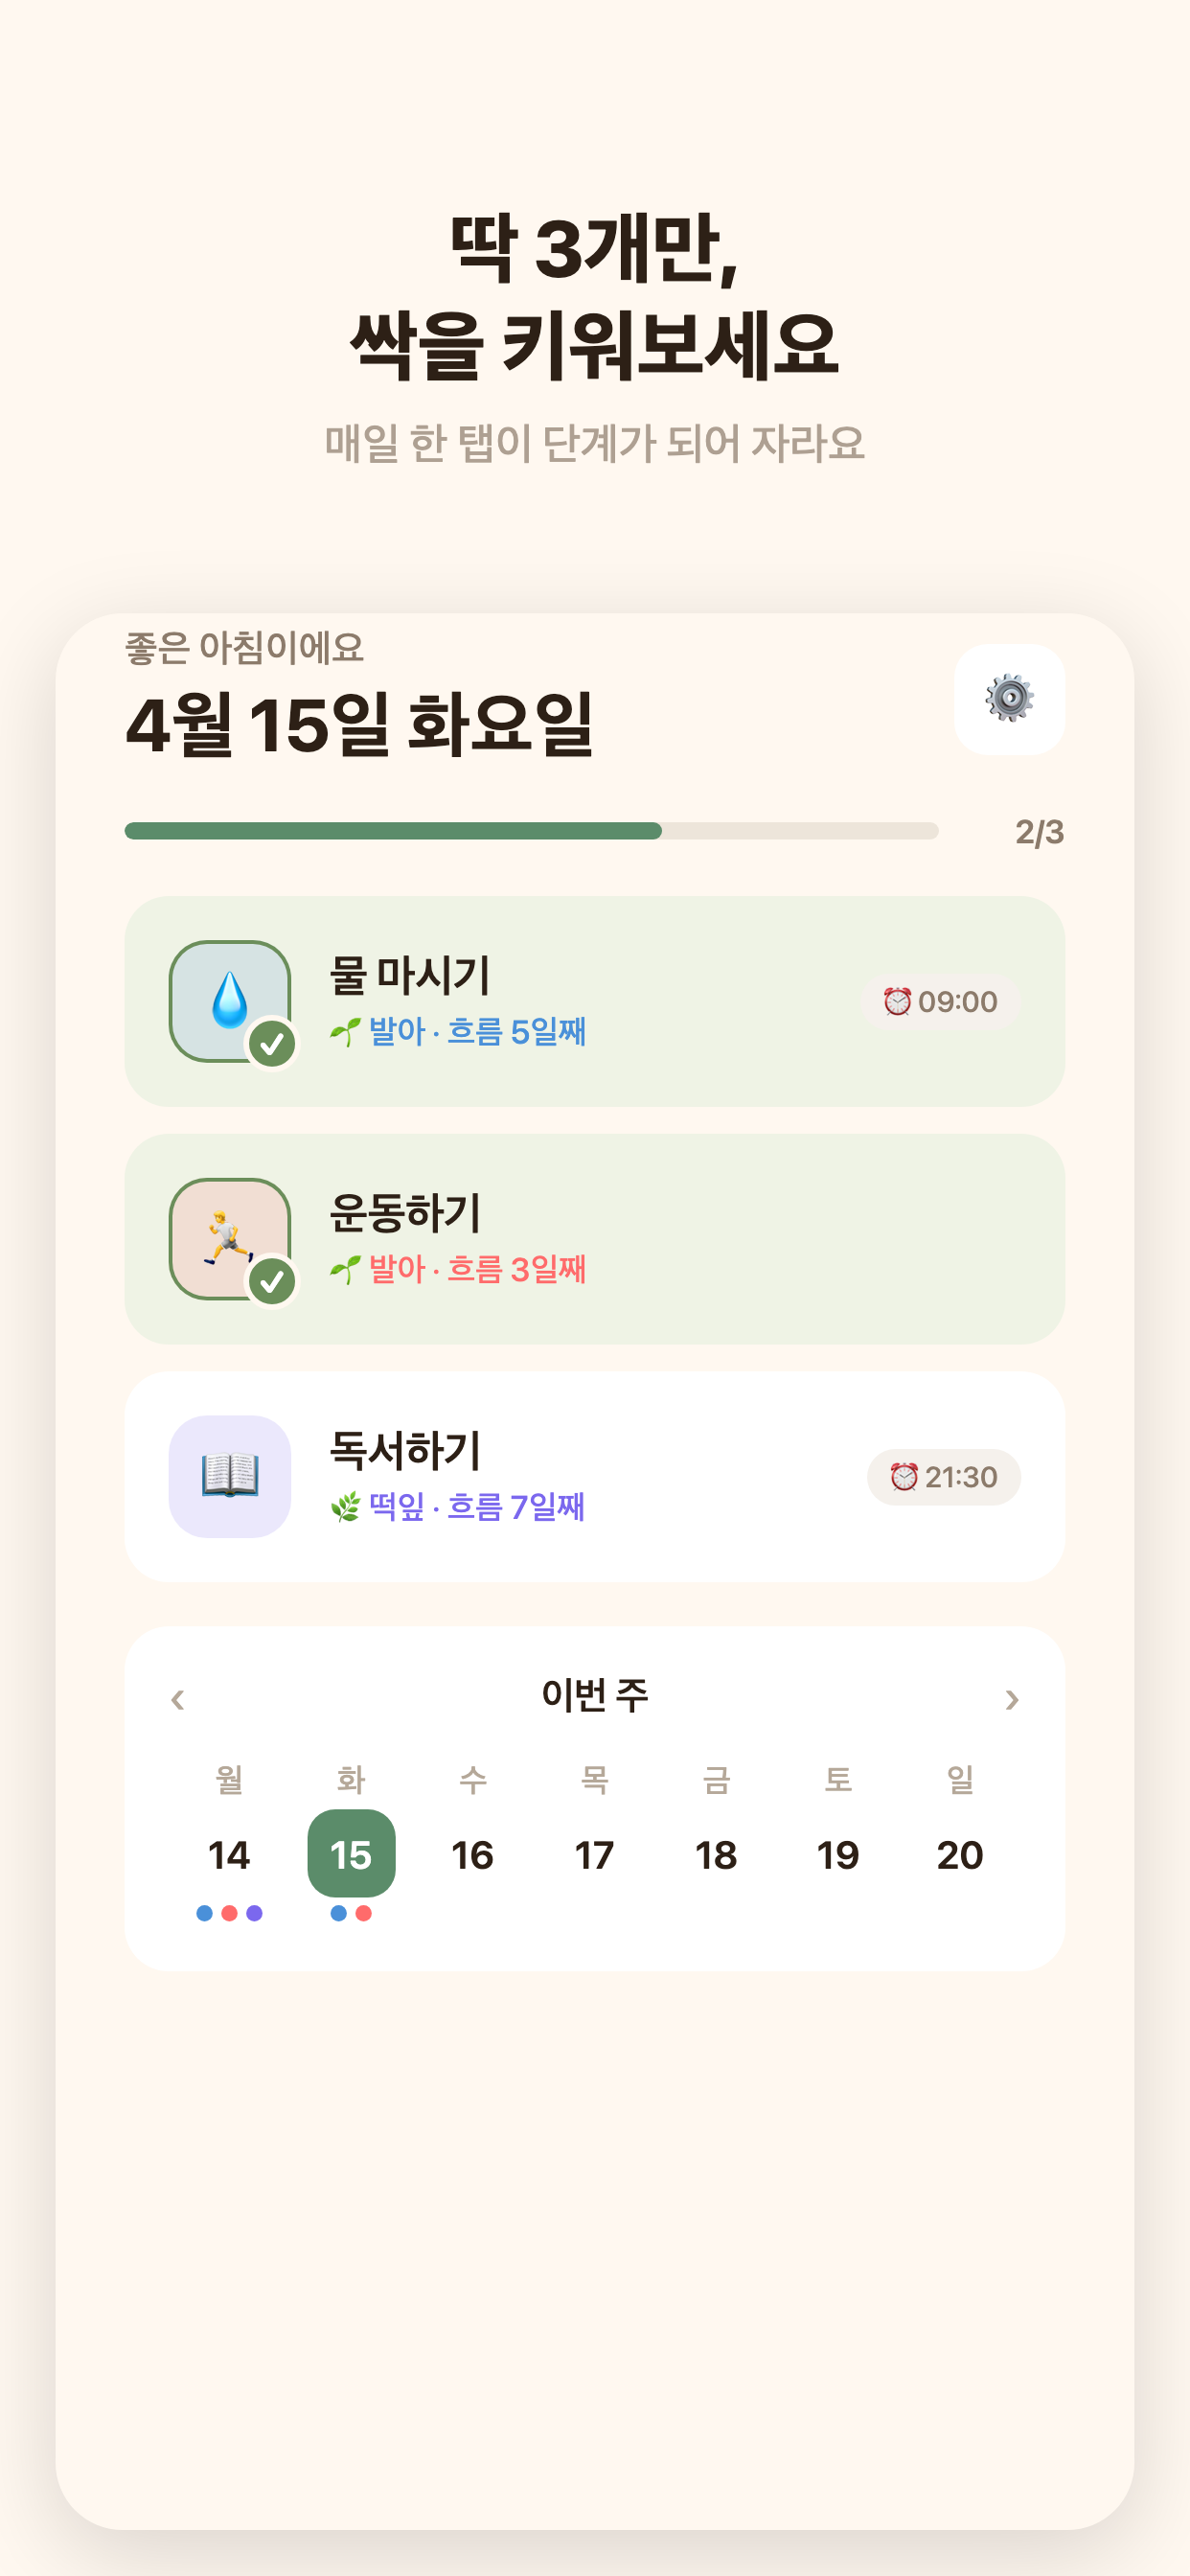
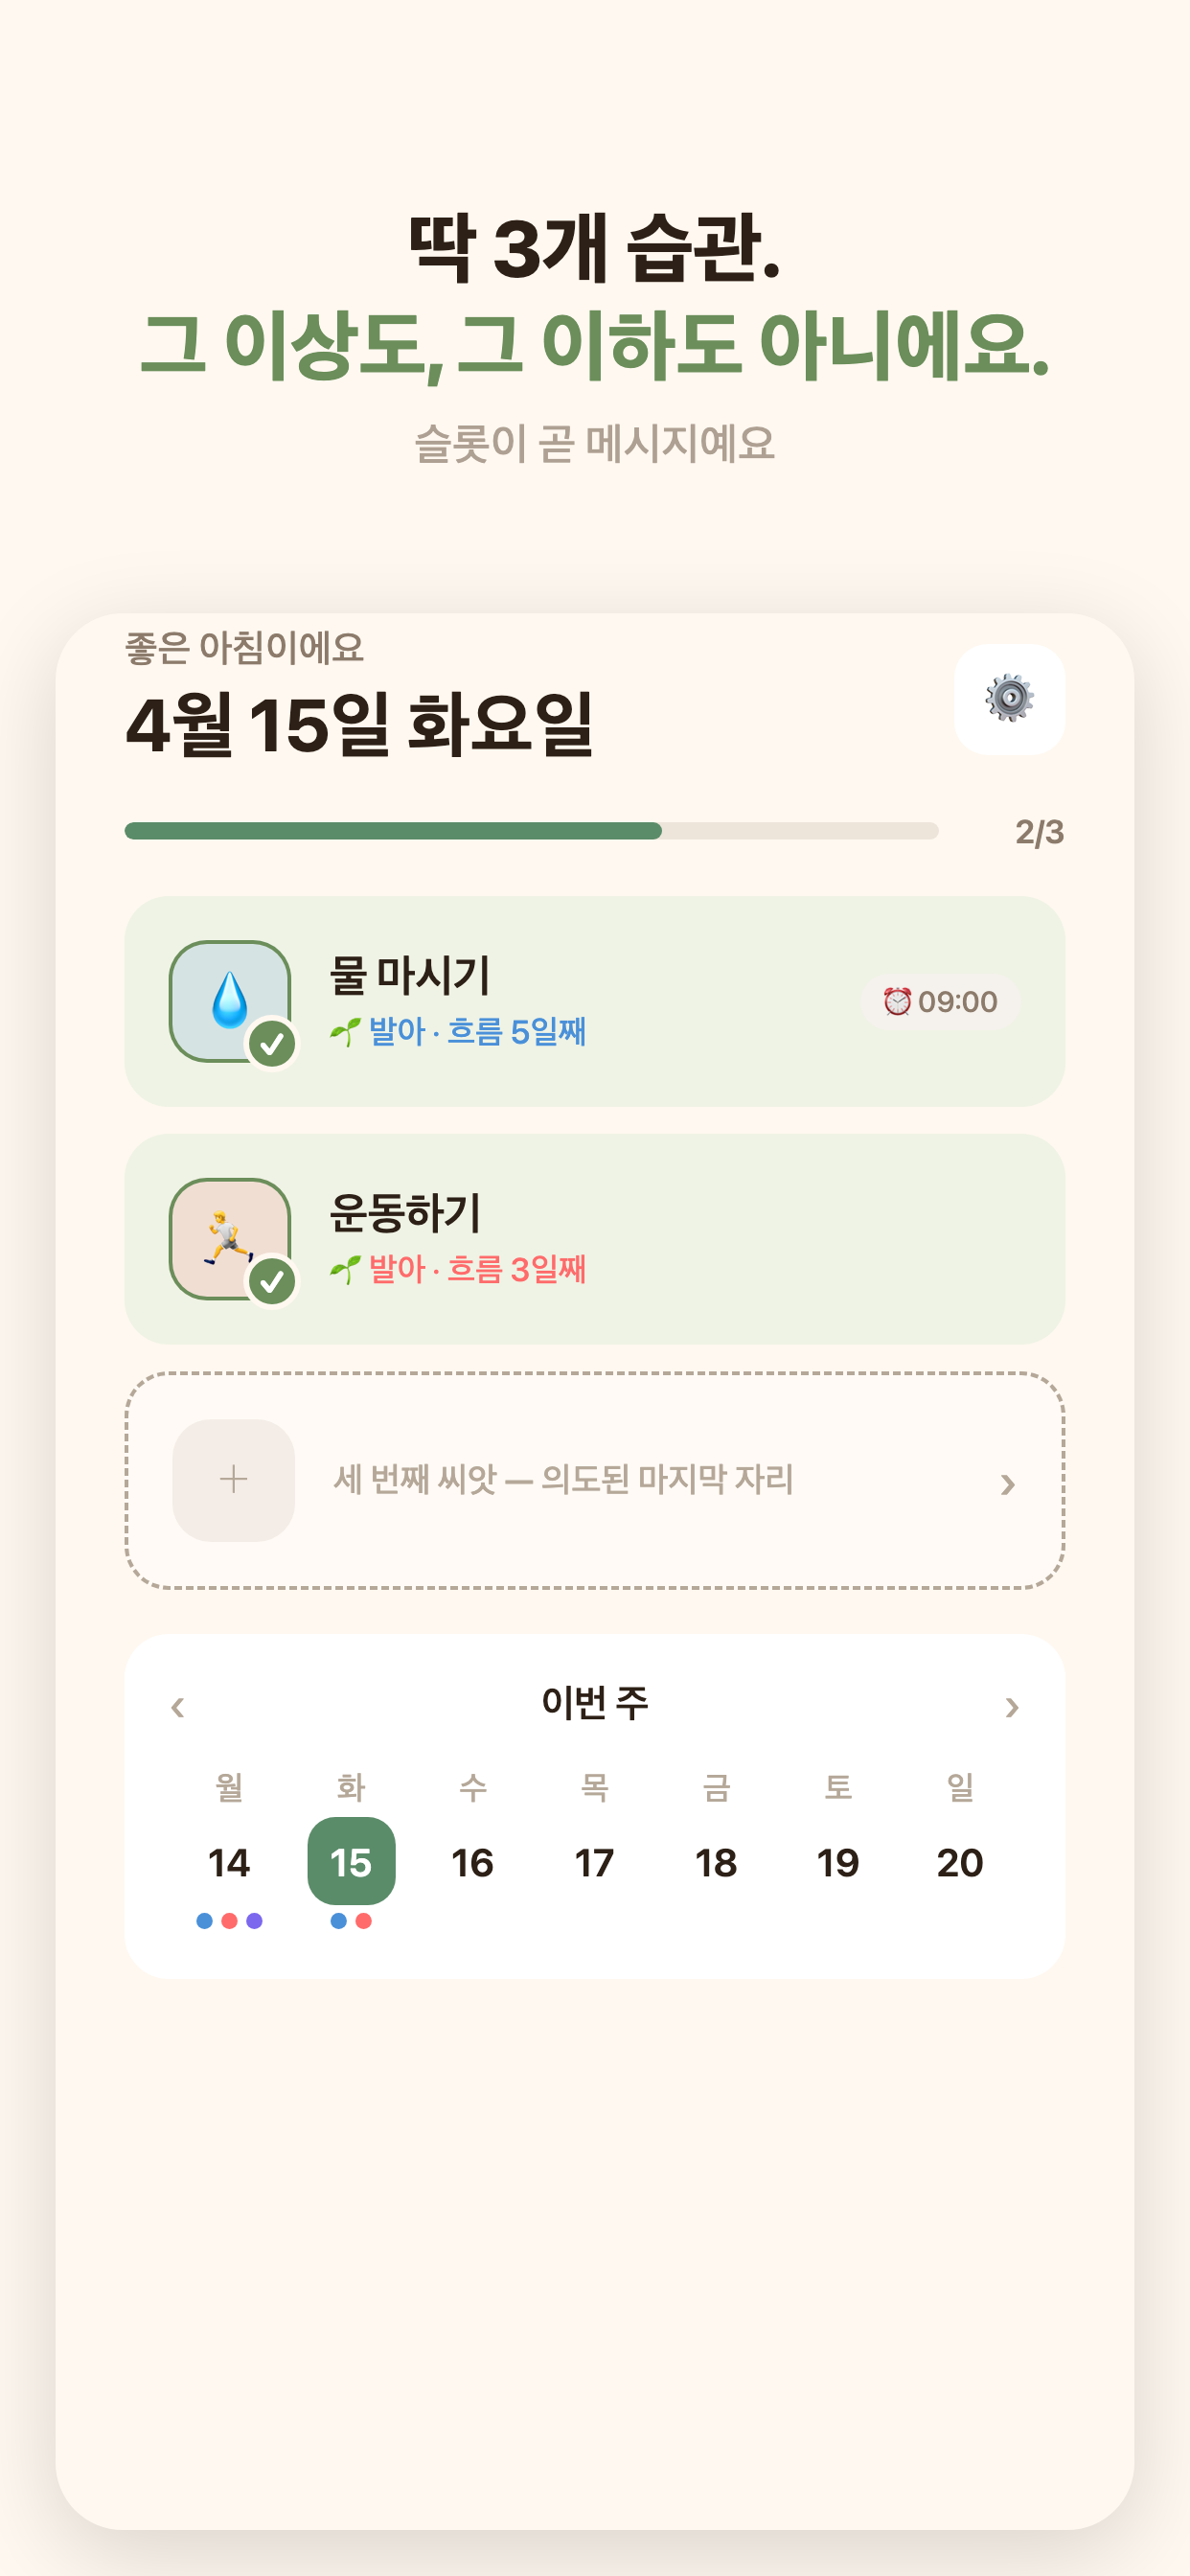
feat: v1.1.2 — 차별화 visibility 강화 (A+C)
A. 앱 안 UI
- 홈 헤더 태그라인 추가 ('🌱 작은 습관이 자라는 곳')
- 빈 슬롯 카드 (3-N개) — 활성 습관 < 3개일 때 dashed border 카드로 남은 슬롯 시각화
  · 1번째 채워짐 → '두 번째 씨앗을 심어보세요' / '세 번째 씨앗 — 의도된 마지막 자리'
  · 탭 → /add 진입
- i18n: home.tagline / home.emptySlot.{second,third} / home.a11y.emptySlot (한/영)

C. App Store
- 스크린샷 01 카피 강화: 'Just 3 habits. No more, no less. The slot is the message.'
- 스크린샷 01에 빈 슬롯 카드 시각화 (마지막 카드 → empty-slot-card)
- store-metadata.md v1.1.2 What's New (한/영)

버전: 1.1.1 → 1.1.2 (iOS buildNumber 10, Android versionCode 8)

diff --git a/assets/screenshots/final-en/01_main.html b/assets/screenshots/final-en/01_main.html
@@ -223,6 +223,49 @@ body { background: #f0f0f0; font-family: -apple-system, BlinkMacSystemFont, 'SF 
   flex-shrink: 0;
   font-weight: 500;
 }
+
+/* 빈 슬롯 카드 (3개 제약 visibility) */
+.empty-slot-card {
+  display: flex;
+  align-items: center;
+  padding: 16px;
+  border-radius: 16px;
+  margin: 0 24px 10px;
+  gap: 14px;
+  border: 1.5px dashed #B5A899;
+  background: rgba(255, 255, 255, 0.3);
+}
+.empty-slot-icon {
+  width: 48px;
+  height: 48px;
+  border-radius: 14px;
+  background: rgba(181, 168, 153, 0.15);
+  display: flex;
+  align-items: center;
+  justify-content: center;
+  font-size: 24px;
+  color: #B5A899;
+  font-weight: 300;
+  flex-shrink: 0;
+}
+.empty-slot-text {
+  flex: 1;
+  font-size: 14px;
+  color: #B5A899;
+  font-weight: 500;
+}
+.empty-slot-arrow {
+  font-size: 18px;
+  color: #B5A899;
+  font-weight: 500;
+}
+@media (min-width: 1000px) {
+  .empty-slot-card { padding: 46px !important; border-radius: 46px !important; margin: 0 72px 28px !important; gap: 40px !important; border-width: 4px !important; }
+  .empty-slot-icon { width: 128px !important; height: 128px !important; border-radius: 40px !important; font-size: 64px !important; }
+  .empty-slot-text { font-size: 36px !important; }
+  .empty-slot-arrow { font-size: 48px !important; }
+}
+
 /* @media large mode 대응 (1242x2688) */
 @media (min-width: 1000px) {
   .check-overlay { width: 60px !important; height: 60px !important; font-size: 32px !important; border-radius: 30px !important; border-width: 6px !important; bottom: -10px !important; right: -10px !important; }
@@ -735,8 +778,8 @@ body {
 <div class="screenshots"><div class="frame" style="background: #FFF8F0;">
   <div class="screen-num">1</div>
   <div class="marketing">
-    <h2 style="color: #2D2016;">Just 3 habits,<br>watch them grow</h2>
-    <p style="color: #8C7B6B;">One tap a day grows into a stage</p>
+    <h2 style="color: #2D2016;">Just 3 habits.<br><span style="color: #6B8E5A;">No more, no less.</span></h2>
+    <p style="color: #8C7B6B;">The slot is the message.</p>
   </div>
   <div class="app-screen" style="background: var(--bg);">
     <div class="app-inner">
@@ -811,36 +854,10 @@ body {
 
       </div>
 
-      <div class="habit-card" style="background: var(--surface);">
-
-
-        <div class="habit-icon-circle" style="background: rgba(123,104,238,0.15);">
-
-
-          📖
-
-
-          
-
-
-        </div>
-
-
-        <div class="habit-info">
-
-
-          <div class="habit-name">Read</div>
-
-
-          <div class="habit-flow" style="color: #7B68EE;">🌿 Leaf · 7-day Flow</div>
-
-
-        </div>
-
-
-        <div class="reminder-chip">⏰ 21:30</div>
-
-
+      <div class="empty-slot-card">
+        <div class="empty-slot-icon">＋</div>
+        <div class="empty-slot-text">A third seed — intentionally last</div>
+        <div class="empty-slot-arrow">›</div>
       </div>
 
       <!-- 주간 캘린더 -->

diff --git a/assets/screenshots/final/01_main.html b/assets/screenshots/final/01_main.html
@@ -223,6 +223,49 @@ body { background: #f0f0f0; font-family: -apple-system, BlinkMacSystemFont, 'SF 
   flex-shrink: 0;
   font-weight: 500;
 }
+
+/* 빈 슬롯 카드 (3개 제약 visibility) */
+.empty-slot-card {
+  display: flex;
+  align-items: center;
+  padding: 16px;
+  border-radius: 16px;
+  margin: 0 24px 10px;
+  gap: 14px;
+  border: 1.5px dashed #B5A899;
+  background: rgba(255, 255, 255, 0.3);
+}
+.empty-slot-icon {
+  width: 48px;
+  height: 48px;
+  border-radius: 14px;
+  background: rgba(181, 168, 153, 0.15);
+  display: flex;
+  align-items: center;
+  justify-content: center;
+  font-size: 24px;
+  color: #B5A899;
+  font-weight: 300;
+  flex-shrink: 0;
+}
+.empty-slot-text {
+  flex: 1;
+  font-size: 14px;
+  color: #B5A899;
+  font-weight: 500;
+}
+.empty-slot-arrow {
+  font-size: 18px;
+  color: #B5A899;
+  font-weight: 500;
+}
+@media (min-width: 1000px) {
+  .empty-slot-card { padding: 46px !important; border-radius: 46px !important; margin: 0 72px 28px !important; gap: 40px !important; border-width: 4px !important; }
+  .empty-slot-icon { width: 128px !important; height: 128px !important; border-radius: 40px !important; font-size: 64px !important; }
+  .empty-slot-text { font-size: 36px !important; }
+  .empty-slot-arrow { font-size: 48px !important; }
+}
+
 /* @media large mode 대응 (1242x2688) */
 @media (min-width: 1000px) {
   .check-overlay { width: 60px !important; height: 60px !important; font-size: 32px !important; border-radius: 30px !important; border-width: 6px !important; bottom: -10px !important; right: -10px !important; }
@@ -735,8 +778,8 @@ body {
 <div class="screenshots"><div class="frame" style="background: #FFF8F0;">
   <div class="screen-num">1</div>
   <div class="marketing">
-    <h2 style="color: #2D2016;">딱 3개만,<br>싹을 키워보세요</h2>
-    <p style="color: #8C7B6B;">매일 한 탭이 단계가 되어 자라요</p>
+    <h2 style="color: #2D2016;">딱 3개 습관.<br><span style="color: #6B8E5A;">그 이상도, 그 이하도 아니에요.</span></h2>
+    <p style="color: #8C7B6B;">슬롯이 곧 메시지예요</p>
   </div>
   <div class="app-screen" style="background: var(--bg);">
     <div class="app-inner">
@@ -811,36 +854,10 @@ body {
 
       </div>
 
-      <div class="habit-card" style="background: var(--surface);">
-
-
-        <div class="habit-icon-circle" style="background: rgba(123,104,238,0.15);">
-
-
-          📖
-
-
-          
-
-
-        </div>
-
-
-        <div class="habit-info">
-
-
-          <div class="habit-name">독서하기</div>
-
-
-          <div class="habit-flow" style="color: #7B68EE;">🌿 떡잎 · 흐름 7일째</div>
-
-
-        </div>
-
-
-        <div class="reminder-chip">⏰ 21:30</div>
-
-
+      <div class="empty-slot-card">
+        <div class="empty-slot-icon">＋</div>
+        <div class="empty-slot-text">세 번째 씨앗 — 의도된 마지막 자리</div>
+        <div class="empty-slot-arrow">›</div>
       </div>
 
       <!-- 주간 캘린더 -->

diff --git a/app/index.tsx b/app/index.tsx
@@ -182,6 +182,9 @@ export default function HomeScreen() {
             <Text style={[styles.dateText, { color: colors.textPrimary }]}>
               {new Date(today + 'T00:00:00').toLocaleDateString(dateLocale, { month: 'long', day: 'numeric', weekday: 'long' })}
             </Text>
+            <Text style={[styles.tagline, { color: colors.completionBorder }]}>
+              🌱 {t('home.tagline')}
+            </Text>
           </View>
           <Pressable
             onPress={() => router.push('/settings')}
@@ -257,6 +260,38 @@ export default function HomeScreen() {
                 />
               </Animated.View>
             ))}
+            {/* 빈 슬롯 카드 — 3개 제약 visibility 강화 */}
+            {activeHabits.length < 3 && Array.from({ length: 3 - activeHabits.length }).map((_, i) => {
+              const slotIndex = activeHabits.length + i;
+              const captionKey = slotIndex === 1
+                ? ('home.emptySlot.second' as const)
+                : ('home.emptySlot.third' as const);
+              return (
+                <Animated.View
+                  key={`empty-slot-${slotIndex}`}
+                  entering={FadeInDown.delay((activeHabits.length + i) * 60).duration(400)}
+                >
+                  <Pressable
+                    onPress={() => router.push('/add')}
+                    accessibilityRole="button"
+                    accessibilityLabel={t('home.a11y.emptySlot', { ordinal: slotIndex + 1 })}
+                    style={({ pressed }) => [
+                      styles.emptySlot,
+                      { borderColor: colors.textMuted + '60' },
+                      pressed && { opacity: 0.6, transform: [{ scale: 0.985 }] },
+                    ]}
+                  >
+                    <View style={[styles.emptySlotIcon, { backgroundColor: colors.inactive }]}>
+                      <Text style={[styles.emptySlotPlus, { color: colors.textMuted }]}>＋</Text>
+                    </View>
+                    <Text style={[styles.emptySlotText, { color: colors.textMuted }]}>
+                      {t(captionKey)}
+                    </Text>
+                    <Text style={[styles.emptySlotArrow, { color: colors.textMuted }]}>›</Text>
+                  </Pressable>
+                </Animated.View>
+              );
+            })}
             <View style={{ marginTop: spacing.xs }}>
               <WeeklyCalendar onDatePress={setSelectedDate} />
             </View>
@@ -329,6 +364,41 @@ const styles = StyleSheet.create({
   dateText: {
     fontSize: fontSize.xl,
     fontWeight: '700',
+  },
+  tagline: {
+    fontSize: fontSize.xs,
+    fontWeight: '500',
+    marginTop: 4,
+    fontStyle: 'italic',
+  },
+  emptySlot: {
+    flexDirection: 'row',
+    alignItems: 'center',
+    padding: spacing.md,
+    borderRadius: 16,
+    borderWidth: 1.5,
+    borderStyle: 'dashed',
+    gap: spacing.sm + 4,
+  },
+  emptySlotIcon: {
+    width: 48,
+    height: 48,
+    borderRadius: 14,
+    justifyContent: 'center',
+    alignItems: 'center',
+  },
+  emptySlotPlus: {
+    fontSize: 22,
+    fontWeight: '300',
+  },
+  emptySlotText: {
+    flex: 1,
+    fontSize: fontSize.sm,
+    fontWeight: '500',
+  },
+  emptySlotArrow: {
+    fontSize: 18,
+    fontWeight: '500',
   },
   progressRow: {
     flexDirection: 'row',

diff --git a/app/settings.tsx b/app/settings.tsx
@@ -14,7 +14,7 @@ import { fontSize, spacing } from '@/constants/theme';
 
 const FEEDBACK_EMAIL = '[email redacted]';
 const LEGAL_BASE_URL = 'https://ssak-habit-tracker.pages.dev';
-const APP_VERSION = '1.1.1';
+const APP_VERSION = '1.1.2';
 
 // 디바이스 언어가 영어 계열이면 .en.html, 그 외(ko 등)는 한국어 원본 사용
 function getLegalUrl(lang: string, page: 'privacy-policy' | 'terms-of-service'): string {

diff --git a/docs/store-metadata.md b/docs/store-metadata.md
@@ -187,6 +187,34 @@ habit tracker, three habits, minimal habit tracker, daily routine, streak, simpl
 
 ## 버전별 업데이트 소개 (What's New)
 
+### v1.1.2 (예정 — 차별점 visibility 강화)
+
+#### 한국어
+```
+화면 안에서도 차별점이 보여요.
+
+• 빈 슬롯 카드 — 매일 '3개만'이 자연스럽게 인지
+  활성 습관이 1~2개일 때 남은 자리가 시각적으로 드러나요.
+• 상단에 작은 태그라인 — '작은 습관이 자라는 곳'
+
+작은 변화지만 매일 보이는 우리만의 특색.
+```
+
+#### English
+```
+Now you see what makes Ssak different.
+
+• Empty slot cards — the "just 3" rule shows itself every day
+  When you have 1 or 2 habits, the remaining slot is visible.
+• Subtle tagline on top — "Where small habits grow"
+
+Small change, but our identity now shows on every screen.
+```
+
+**릴리즈 설정**
+- 출시 방식: 승인 후 자동 출시
+- 변경 범위: 홈 상단 태그라인 / 빈 슬롯 카드 (3-N개, 탭 시 /add 진입) / 스크린샷 첫 장 카피 강화 + 빈 슬롯 시각화 반영
+
 ### v1.1.1 (예정 — UX 다듬기 핫픽스)
 
 #### 한국어